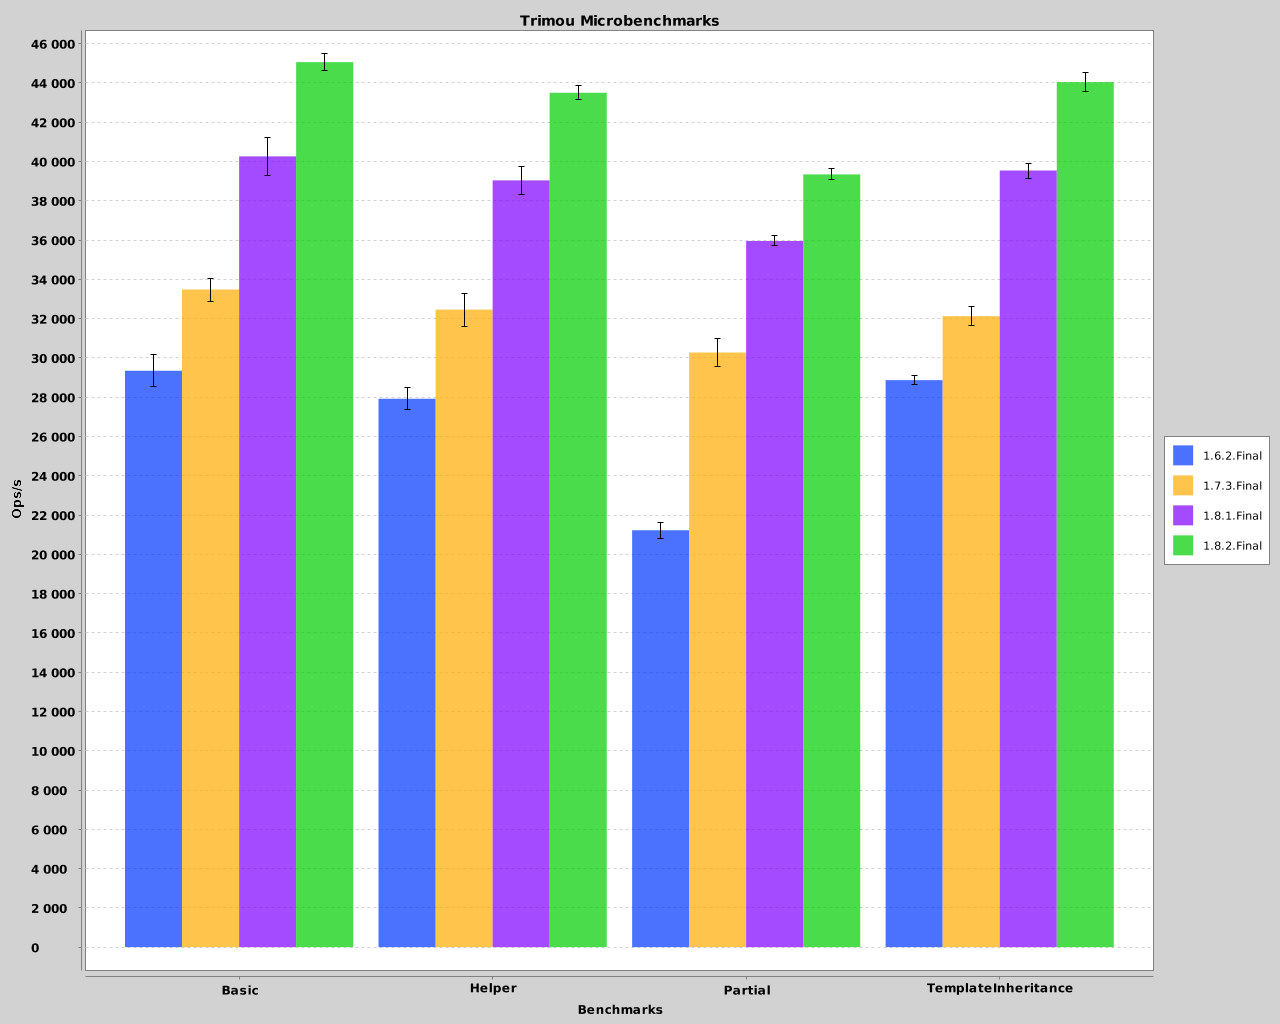
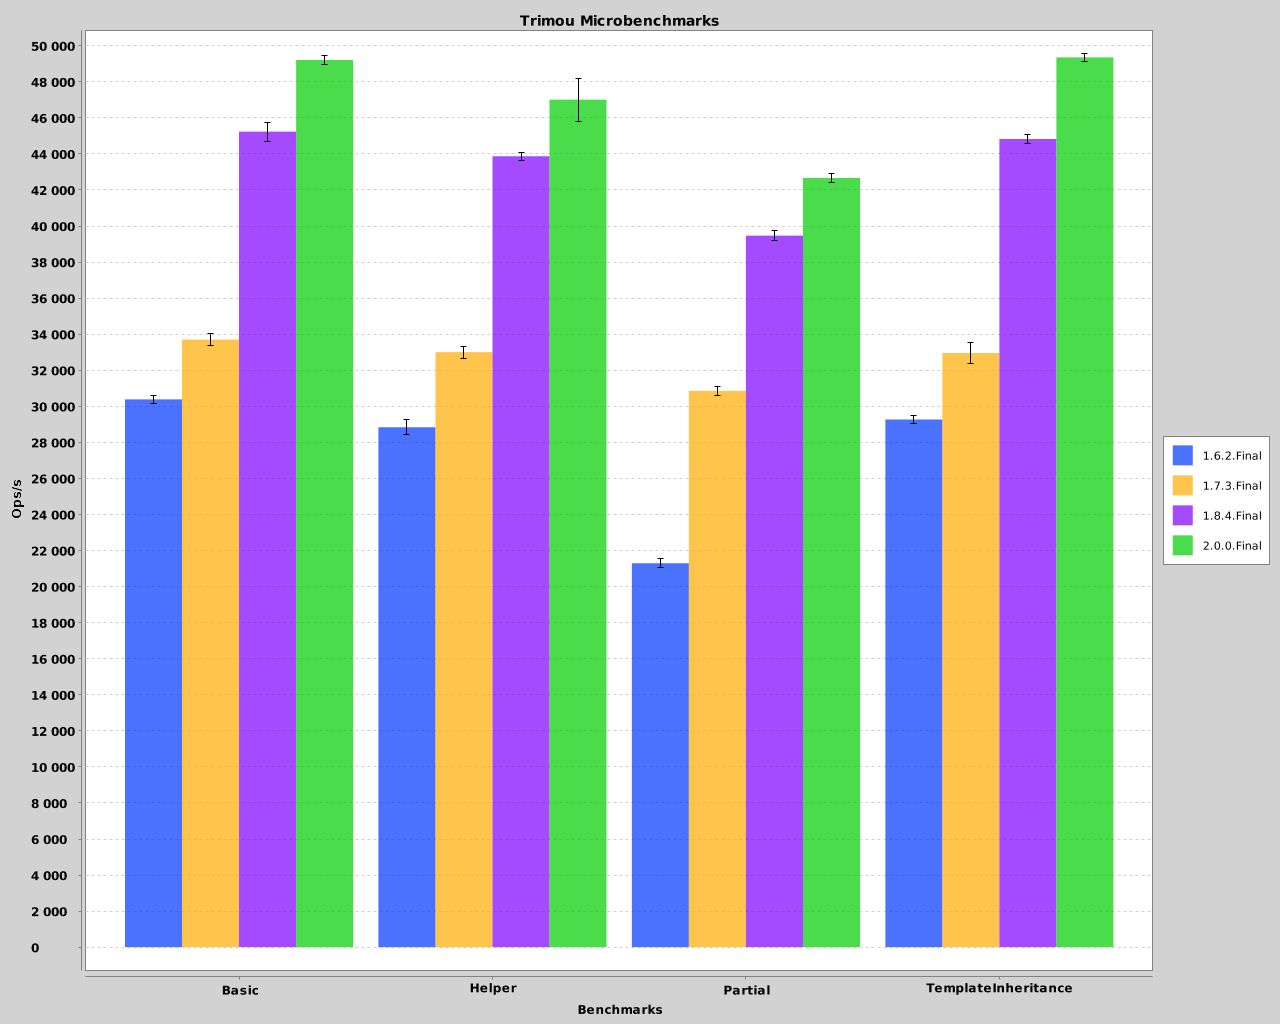
2.0.0.Final

diff --git a/README.md b/README.md
@@ -5,7 +5,7 @@ Running the benchmarks
 
 > $ ./benchmarks.sh
 
-to run benchmarks and generate a chart for `1.6.2.Final`, `1.7.3.Final`, `1.8.1.Final` and `1.8.2.Final`, or
+to run benchmarks and generate a chart for `1.6.2.Final`, `1.7.3.Final`, `1.8.4.Final` and `2.0.0.Final`, or
 
 > $ mvn package -Dversion.trimou=1.8.2.Final
 
